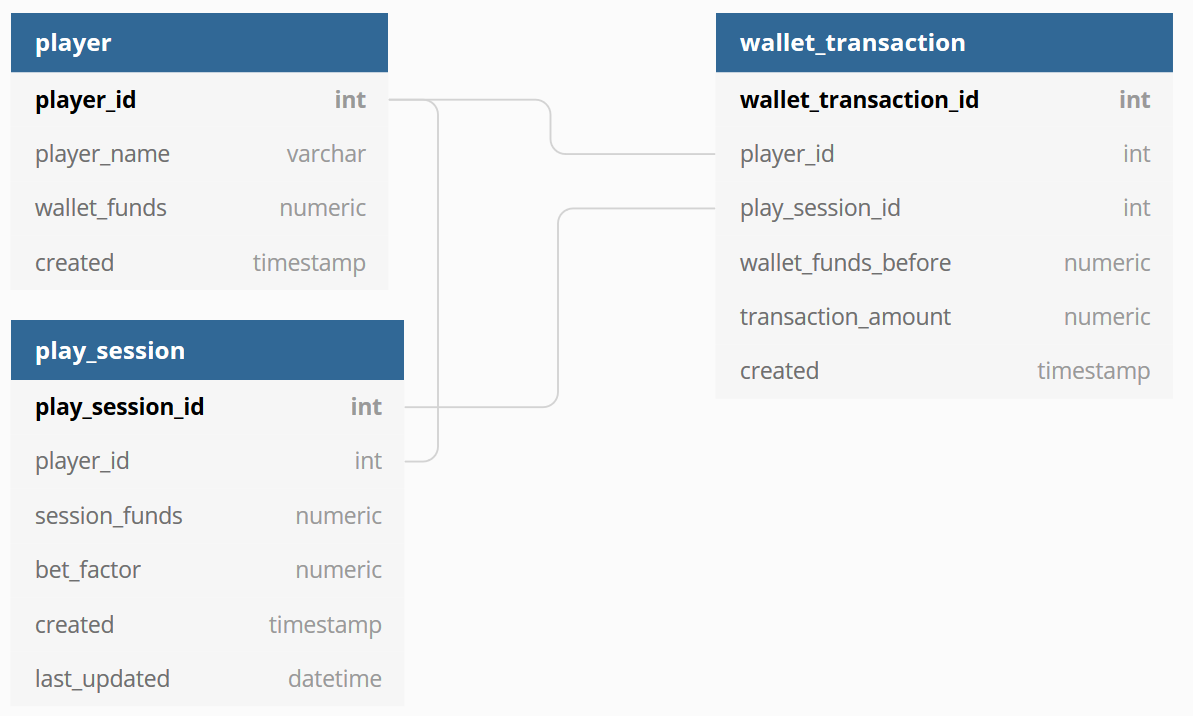
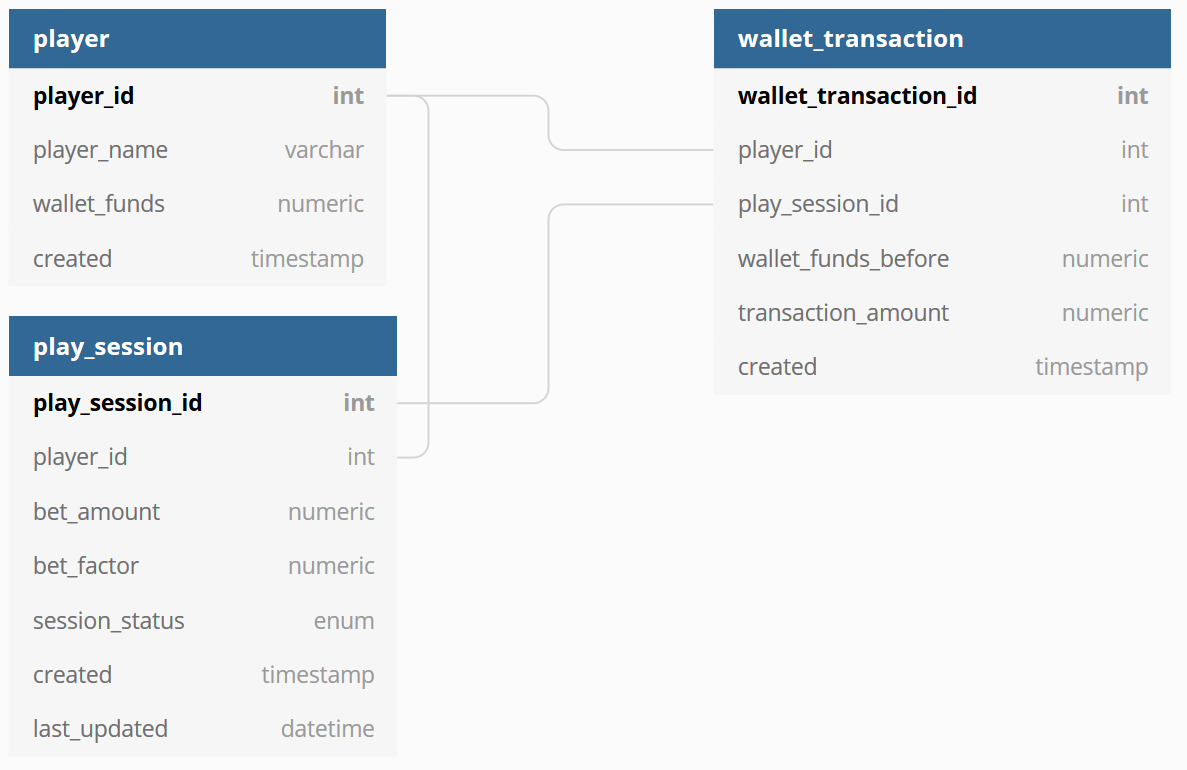
Upg: db fieldnames normalized, diagram updated, tech  docs update

diff --git a/documentation/Technical_documentation.md b/documentation/Technical_documentation.md
@@ -23,13 +23,12 @@ and for simplicity there is a column named *wallet_funds*.
 The *play_session* table contains all the sessions/bets.
 
 Non-trivial fields:
-- *session_funds* which is actually the "bet_amount" (TODO: rename the column to
-*bet_amount*).
-- *bet_factor* the factor/multiplyer of the bet. A factor of 2 means if the
+- *bet_amount* the amount transferred from the wallet and used for the bet.
+- *bet_factor* the factor/multiplayer of the bet. A factor of 2 means if the
 player wins, will get back double the bet_amount.
 - *bet_outcome* is an enum, "open" | "won" | "lost". Updates to the record are
 allowed only if "open". If "won" a transaction with the bet is added and the
-amount is transferred back to the *wallet_funds* (bef_factor * bet_amount).
+amount is transferred back to the *wallet_funds* (bet_factor * bet_amount).
 If "lost" no second transaction is made.
 
 
